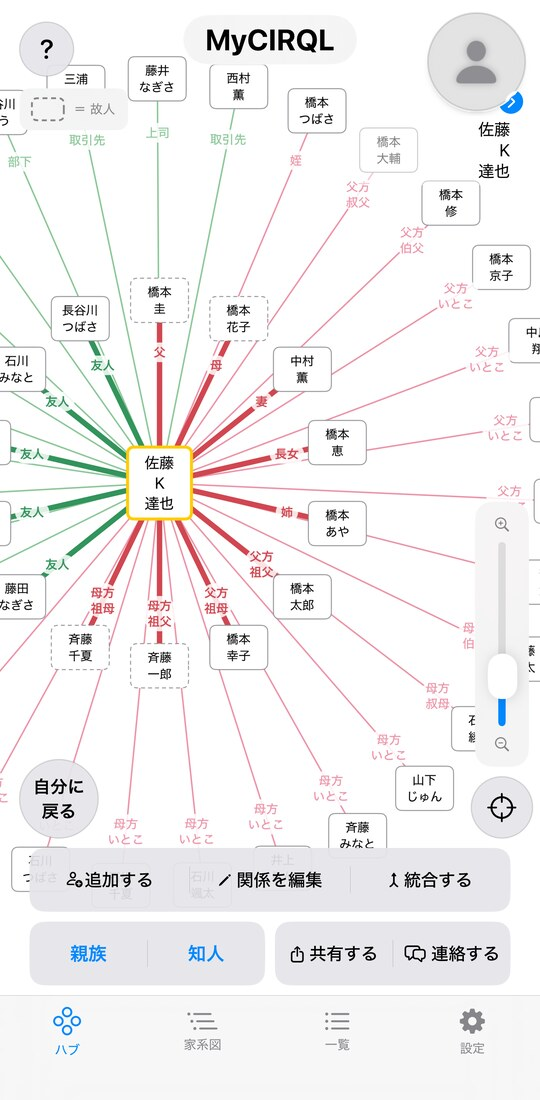
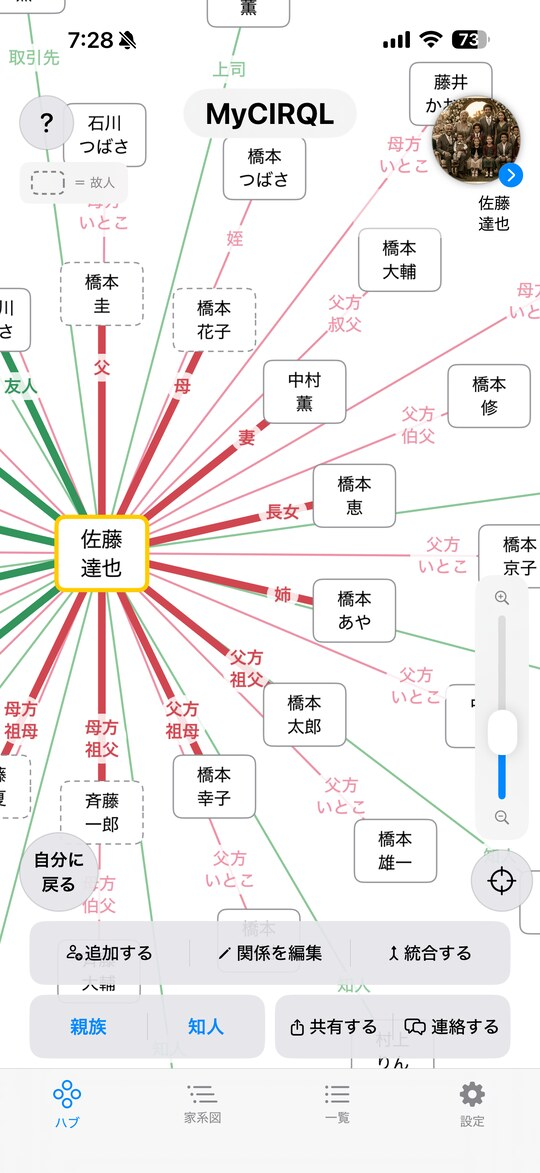
iPhone画面写真をユーザー提供の新しいものに差し替え
- ステータスバー付きの実機スクショ3枚（ハブ/家系図/一覧）に入れ替え
  時刻・電波・電池が入ることで、端末の見本として自然に見えるようになった
  （前回は上部を切り落としたためステータスバーが無く不自然だった）
- 新しい素材には TestFlight の表示が無いので、切らずにそのまま使える
- 共有・読み取りの2枚は旧素材のため一旦ギャラリーから外した

diff --git a/index.html b/index.html
@@ -206,7 +206,7 @@
       </div>
     </div>
     <div class="phone">
-      <img src="img/ip_1_hub.jpg" alt="相関図の画面。中心の人物から家族・親戚・友人へ線が伸びている" width="540" height="1100">
+      <img src="img/ip_1_hub.jpg" alt="相関図の画面。中心の人物から家族・親戚・友人へ線が伸びている" width="540" height="1173">
     </div>
   </div>
 </header>
@@ -257,24 +257,16 @@
   <p class="sub">横にスクロールしてご覧ください。</p>
   <div class="shots">
     <div class="shot">
-      <div class="phone"><img src="img/ip_1_hub.jpg" alt="相関図（ハブ）の画面" width="540" height="1100" loading="lazy"></div>
+      <div class="phone"><img src="img/ip_1_hub.jpg" alt="相関図（ハブ）の画面" width="540" height="1173" loading="lazy"></div>
       <p>ハブ<br>その人を中心に関係が広がる</p>
     </div>
     <div class="shot">
-      <div class="phone"><img src="img/ip_2_tree.jpg" alt="家系図の画面" width="540" height="1100" loading="lazy"></div>
+      <div class="phone"><img src="img/ip_2_tree.jpg" alt="家系図の画面" width="540" height="1173" loading="lazy"></div>
       <p>家系図<br>縦に世代が並ぶ日本式</p>
     </div>
     <div class="shot">
-      <div class="phone"><img src="img/ip_3_list.jpg" alt="一覧の画面" width="540" height="1100" loading="lazy"></div>
+      <div class="phone"><img src="img/ip_3_list.jpg" alt="一覧の画面" width="540" height="1173" loading="lazy"></div>
       <p>一覧<br>カテゴリーや関連度で絞り込み</p>
-    </div>
-    <div class="shot">
-      <div class="phone"><img src="img/ip_4_share.jpg" alt="連絡先を共有する画面" width="540" height="1100" loading="lazy"></div>
-      <p>共有<br>送る項目を選んで渡せる</p>
-    </div>
-    <div class="shot">
-      <div class="phone"><img src="img/ip_5_ocr.jpg" alt="名刺やメモを読み取る画面" width="540" height="1100" loading="lazy"></div>
-      <p>読み取り<br>名刺やメモから文字を抽出</p>
     </div>
   </div>
 </section>
